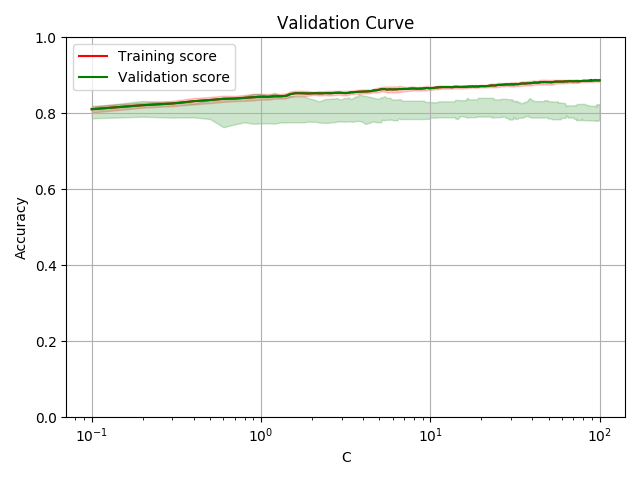
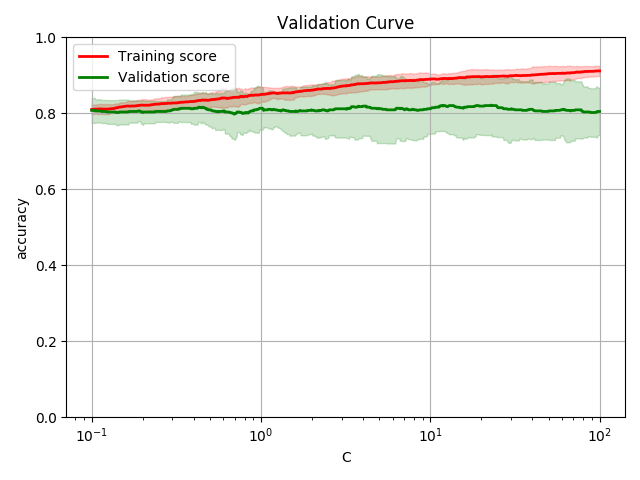
upd

Changed region(s): [[0.125, 0.125, 0.9375, 0.3125], [0.0, 0.4062, 0.0625, 0.5312], [0.125, 0.0938, 0.1562, 0.125]]

diff --git a/Tuner.py b/Tuner.py
@@ -1,0 +1,81 @@
+from env import *
+from sklearn.ensemble import RandomForestClassifier
+from sklearn.svm import SVC
+from sklearn.model_selection import RandomizedSearchCV, validation_curve
+from scipy.stats import reciprocal, uniform
+
+
+class Tuner:
+    def __init__(self, model):
+        self.model = model
+        self.params = self.model.get_params()
+        self.init_cv_params = self._init_cv_params(type(self.model))
+
+    def random_cv(self, X, y, params=None, cv=5, n_iter=1000, inplace=True):
+        print("Parameters:", self.params)
+        params = self.init_cv_params if params is None else params
+        rnd_search = RandomizedSearchCV(self.model, params, cv=cv, n_iter=n_iter, scoring='accuracy',
+                                        return_train_score=True, n_jobs=-1, verbose=0)
+        rnd_search.fit(X, y)
+        self._print_cv_result(rnd_search.cv_results_)
+        best_model = rnd_search.best_estimator_
+        if inplace:
+            self.model = best_model
+            return
+        return best_model
+
+    def plot_validation_curve(self, X, y, param_name, param_range, scoring, cv=5, inplace=True):
+        train_scores, val_scores = validation_curve(self.model, X, y, param_name=param_name, param_range=param_range,
+                                                    cv=cv, scoring=scoring, n_jobs=-1)
+        train_scores_mean, train_scores_std = np.mean(train_scores, axis=-1), np.std(train_scores, axis=-1)
+        val_scores_mean, val_scores_std = np.mean(val_scores, axis=-1), np.std(val_scores, axis=-1)
+
+        # Plot with semi log
+        plt.semilogx(param_range, train_scores_mean, label='Training score', color='r', lw=2)
+        plt.semilogx(param_range, val_scores_mean, label='Validation score', color='g', lw=2)
+
+        # Fill 95% confidence interval
+        plt.fill_between(param_range,
+                         train_scores_mean - 2*train_scores_std,
+                         train_scores_mean + 2*train_scores_std,
+                         alpha=0.2, color='r')
+        plt.fill_between(param_range,
+                         val_scores_mean - 2*val_scores_std,
+                         val_scores_mean + 2*val_scores_std,
+                         alpha=0.2, color='g')
+
+        plt.title('Validation Curve')
+        plt.xlabel(param_name);  plt.ylabel(scoring)
+        plt.ylim(0, 1)
+        plt.legend();  plt.grid();  plt.show()
+
+        opt_idx = np.argmax(val_scores_mean)
+        opt_param, opt_score = param_range[opt_idx], val_scores_mean[opt_idx]
+
+        print("Optimal param:", opt_param)
+        print("Optimal score:", opt_score)
+
+        #TODO
+        # Modification needed
+        # if inplace:
+        #     self.model.set_params(opt_param)
+        #     return
+        return opt_param, opt_score
+
+    @staticmethod
+    def _print_cv_result(cvres):
+        rst = pd.DataFrame(cvres)[['params', 'mean_test_score', 'std_test_score', 'rank_test_score', 'mean_train_score', 'std_train_score']]
+        sorted_rst = rst.sort_values(by='rank_test_score')
+        print(sorted_rst)
+        return
+
+    @staticmethod
+    def _init_cv_params(type):
+        if type == SVC:
+            return {'C': np.logspace(-1, 2),
+                    'gamma': np.logspace(-4, 4)}
+        elif type == RandomForestClassifier:
+            pass
+
+
+

diff --git a/train.py b/train.py
@@ -1,42 +1,46 @@
 from env import *
-import models
+from Tuner import Tuner
 
 if __name__ == "__main__":
-    ### Load data
-    train_naive_proc_data = pd.read_csv(TRAIN_NAIVE_PROC_CSV_PATH)
-    train_proc_data = pd.read_csv(TRAIN_PROC_CSV_PATH)
+    ########################
+    ## 1. Load data
+    ########################
+    train_naive_proc_data, train_proc_data = pd.read_csv(TRAIN_NAIVE_PROC_CSV_PATH), pd.read_csv(TRAIN_PROC_CSV_PATH)
+    test_naive_proc_data, test_proc_data = pd.read_csv(TEST_NAIVE_PROC_CSV_PATH), pd.read_csv(TEST_PROC_CSV_PATH)
 
-    test_naive_proc_data = pd.read_csv(TEST_NAIVE_PROC_CSV_PATH)
-    test_proc_data = pd.read_csv(TEST_PROC_CSV_PATH)
 
-    # ### Use naive proc data
-    # X_train, y_train = split_target(train_naive_proc_data)
-    # X_test = test_naive_proc_data
-
-    ### Use full proc data
+    ########################
+    ## 2. Preprocess data
+    ########################
+    X_train_naive, y_train_naive = split_target(train_naive_proc_data)
     X_train, y_train = split_target(train_proc_data)
+    X_test_naive = test_naive_proc_data
     X_test = test_proc_data
 
-    ### Model selection
-    model = models.svc
-    best_model = models.random_cv(model, X_train, y_train, param=models.param_SVC)
-    # models.plot_validation_curve(model, X_train, y_train,
-    #                              param_name='gamma',
-    #                              param_range=np.logspace(-4, 4, num=1000),
-    #                              scoring='accuracy')
 
-    # models.plot_validation_curve(model, X_train, y_train,
-    #                                  param_name='C',
-    #                                  param_range=np.linspace(0.1, 100, num=1000),
-    #                                  scoring='accuracy')
+    ########################
+    ## 3. Model selection
+    ########################
+    ## 1) Model
+    model = SVC()  # RandomForestClassifier(n_estimators=200, oob_score=True, n_jobs=-1, random_state=42)
 
-    # model = models.SVC(gamma=0.823978568452852)
-    # model.fit(X_train, y_train)
+    ## 2) Tuning parameters with Cross-Validation
+    tuner = Tuner(model)
+
+    # # best_model = model.random_cv(model, X_train, y_train)
+    tuner.plot_validation_curve(X_train, y_train,
+                                param_name='gamma',
+                                param_range=np.logspace(-4, 4, num=1000),
+                                scoring='accuracy')
+
+    tuner.plot_validation_curve(X_train, y_train,
+                                param_name='C',
+                                param_range=np.logspace(-1, 2, num=1000),
+                                scoring='accuracy')
+
     # y_pred = model.predict(X_test)
-
-    y_pred = best_model.predict(X_test)
-    X_test = pd.read_csv(TEST_CSV_PATH)['PassengerId']
-    y_pred = pd.Series(y_pred, name='Survived')
-    result = pd.concat([X_test, y_pred], axis=1)
-    print(result)
-    result.to_csv("submission.csv", index=False)
+    # X_test = pd.read_csv(TEST_CSV_PATH)['PassengerId']
+    # y_pred = pd.Series(y_pred, name='Survived')
+    # result = pd.concat([X_test, y_pred], axis=1)
+    # print(result)
+    # result.to_csv("submission.csv", index=False)

diff --git a/env.py b/env.py
@@ -3,6 +3,9 @@ import pandas as pd
 import matplotlib.pyplot as plt
 import re
 
+from sklearn.svm import SVC
+from sklearn.ensemble import RandomForestClassifier
+
 np.set_printoptions(precision=2, edgeitems=20, linewidth=1000)
 pd.set_option('display.max_columns', 100)
 pd.set_option('display.width', 1000)
